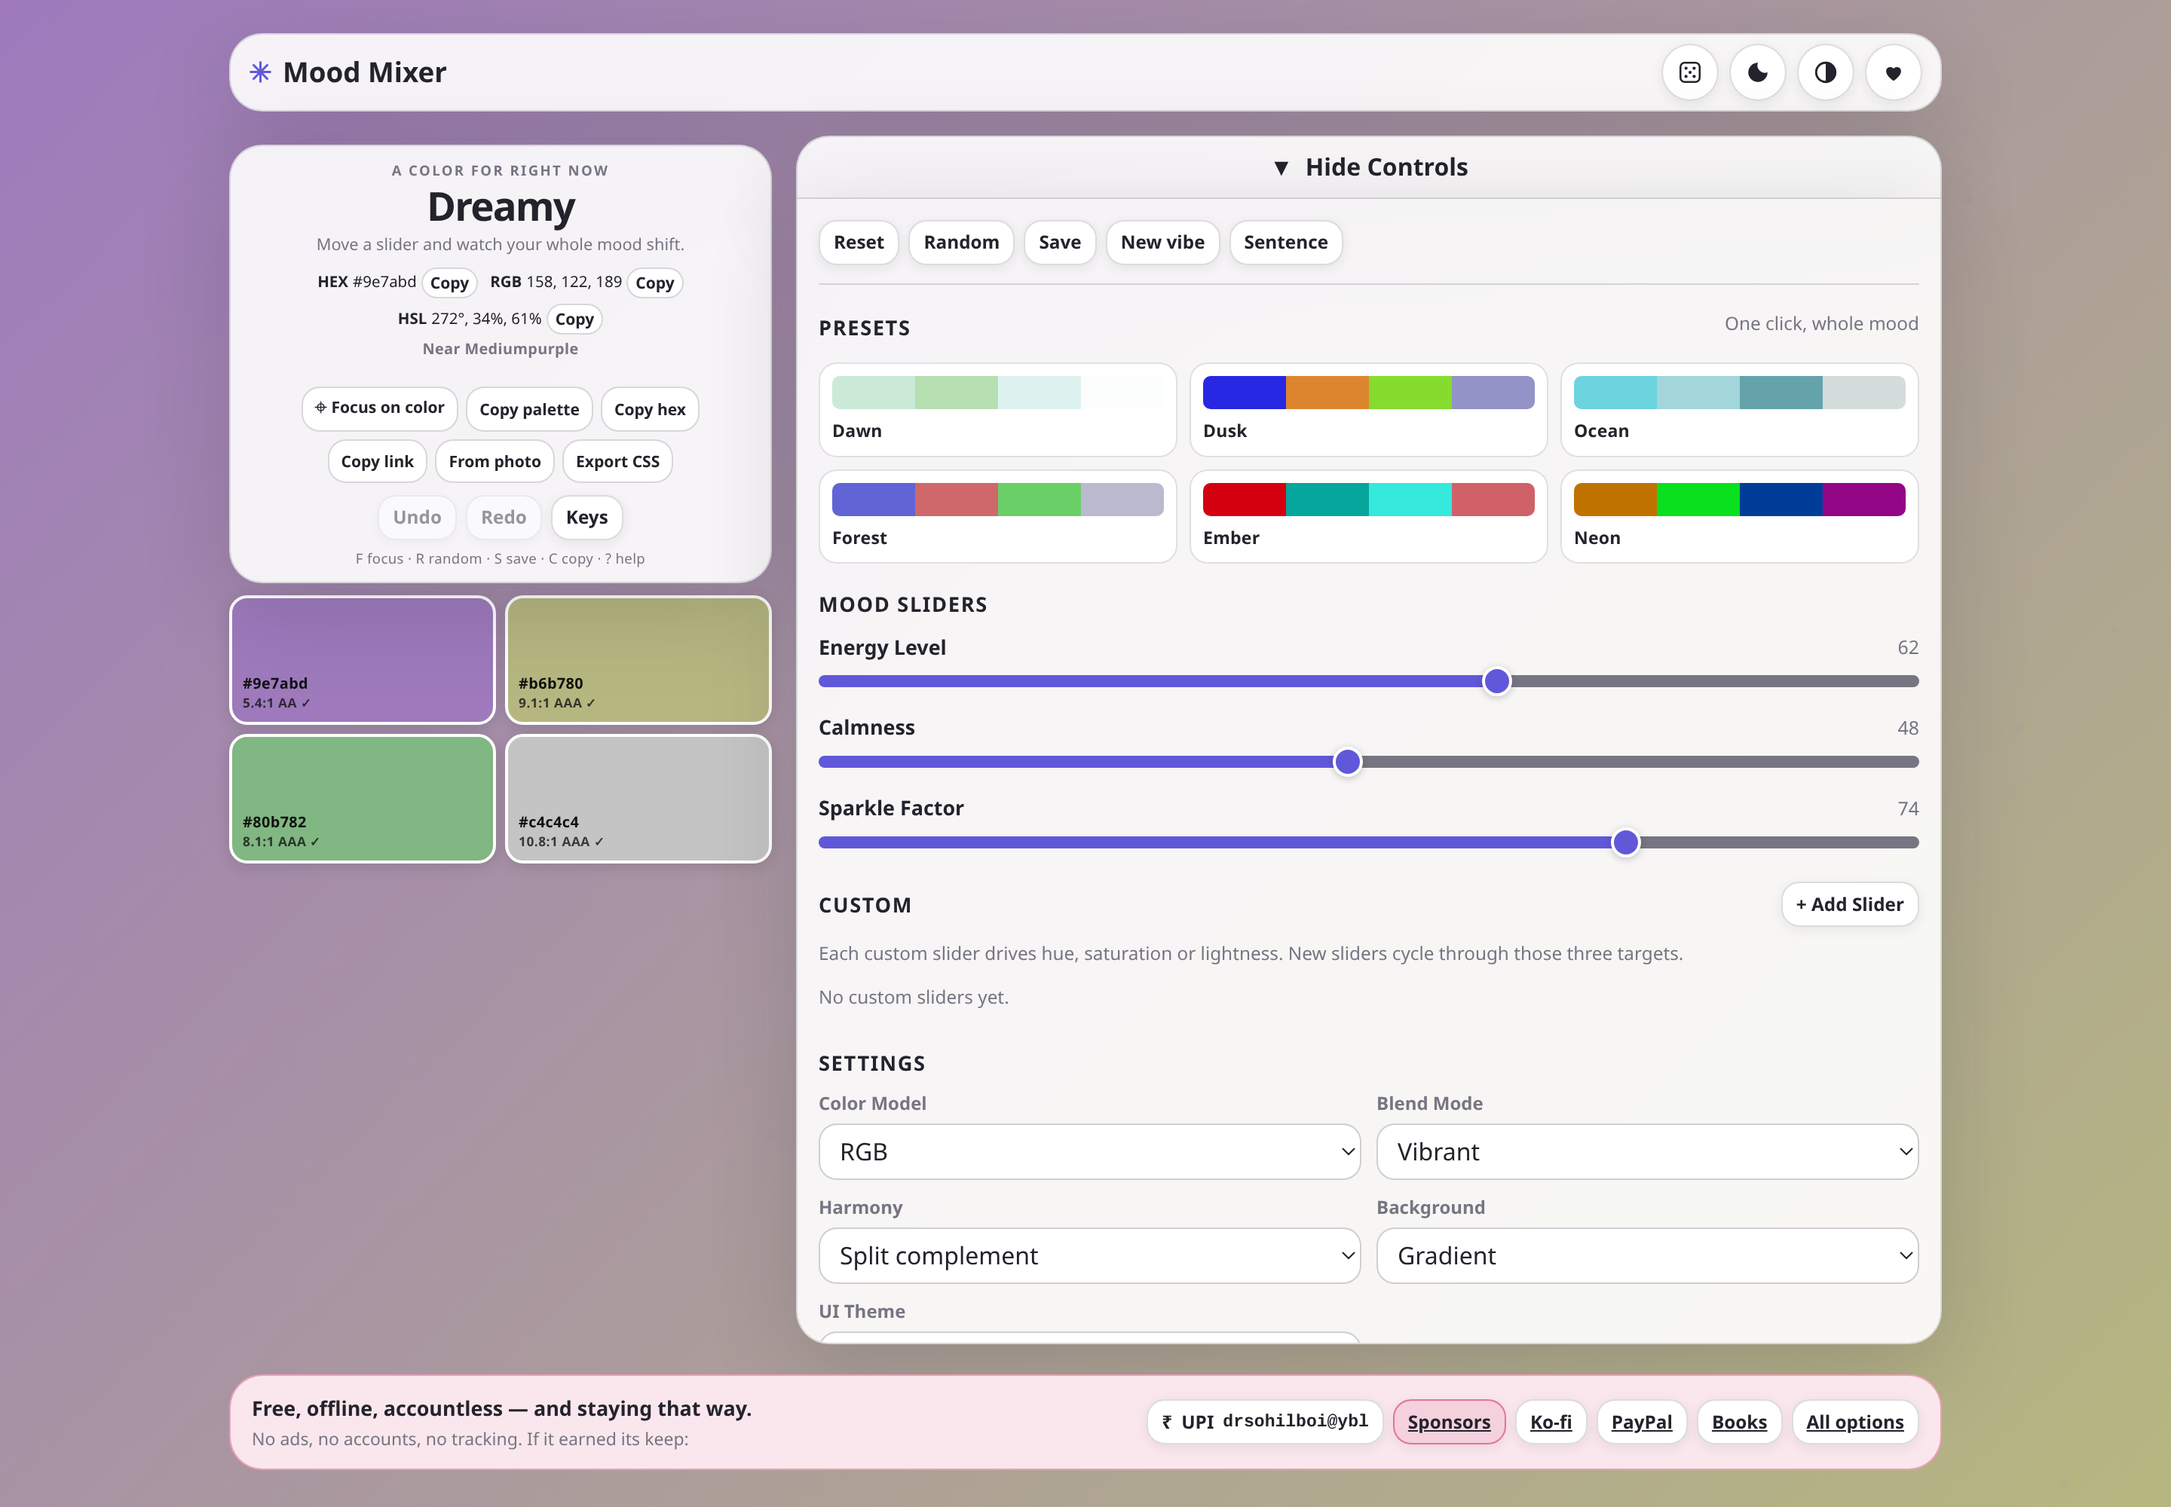
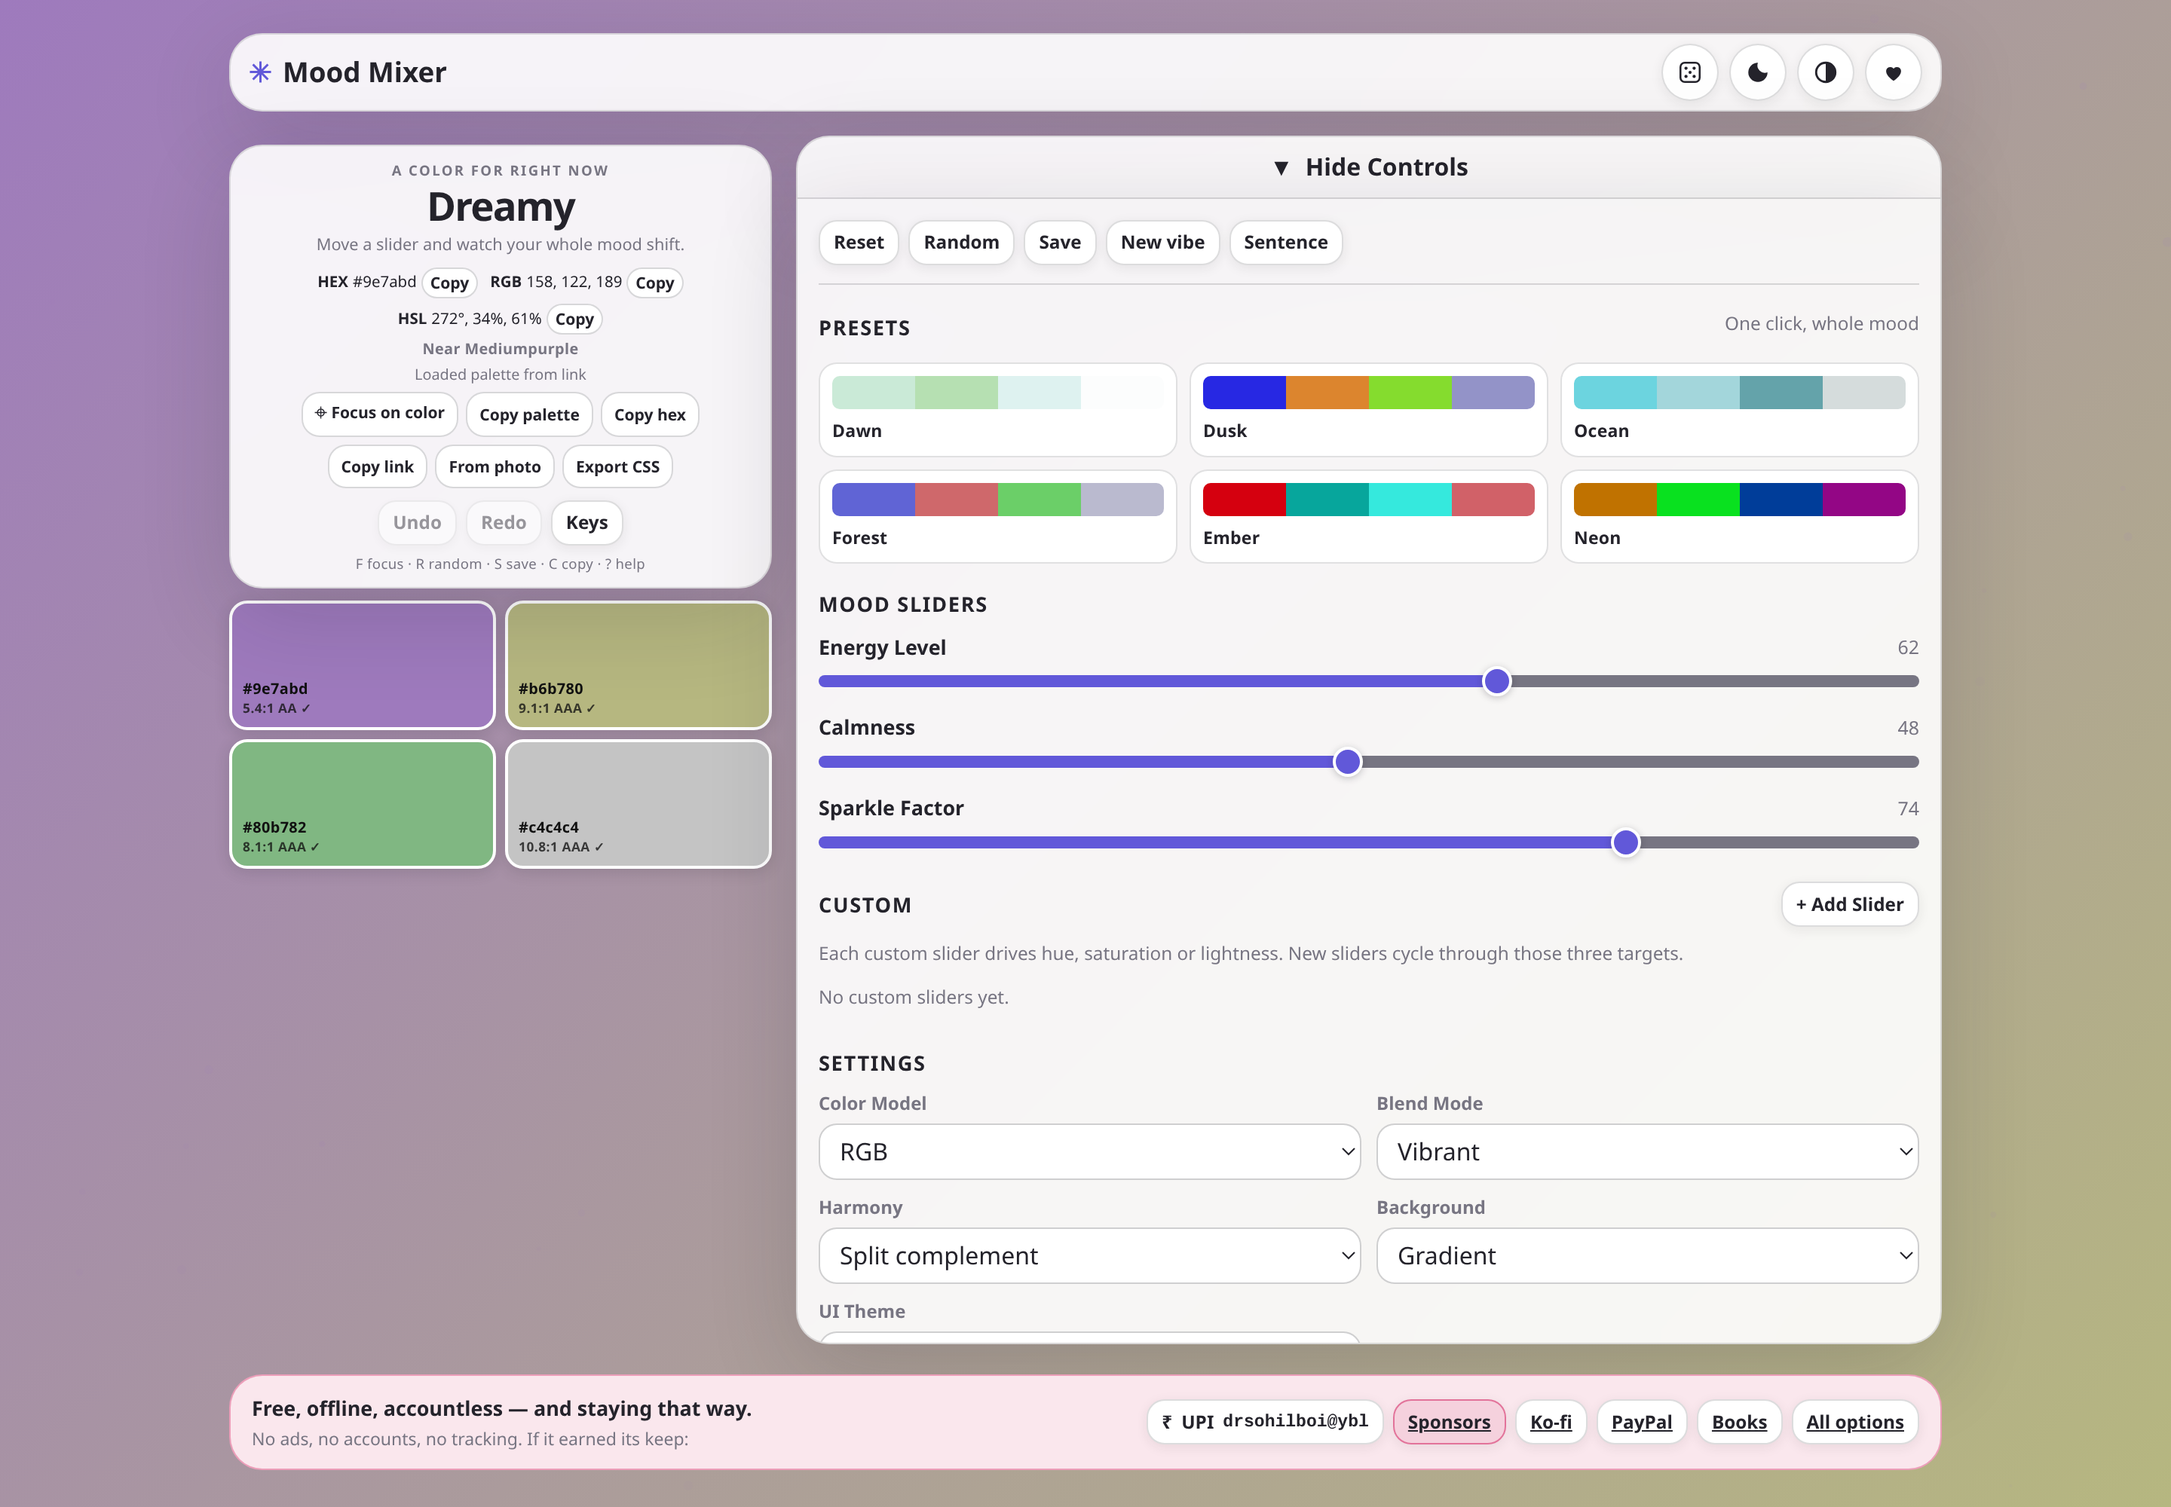
Batch 13 (condensed): clipboard seeding, folder export, mood compare, focus caption
- Paste an image anywhere to seed the sliders from its dominant colour
- Export folder downloads just that folder as JSON
- Saved moods gain a Compare button; the compare dialog takes any palette
- Focus mode shows a hex caption for 1.4s on entry and on colour change
- Asset version 2.13.0

Changed region(s): [[0.0938, 0.248, 0.375, 0.403], [0.0938, 0.527, 0.3438, 0.589], [0.0938, 0.434, 0.375, 0.496]]

diff --git a/script.js b/script.js
@@ -474,6 +474,8 @@
     if (!chips) return;
     const rename = byId('renameFolderBtn');
     if (rename) rename.hidden = state.folderFilter === 'All';
+    const exportFolder = byId('exportFolderBtn');
+    if (exportFolder) exportFolder.hidden = state.folderFilter === 'All';
     const counts = new Map();
     state.saved.forEach((mood) => {
       const key = folderOf(mood);
@@ -658,6 +660,16 @@
         persistNow();
       });
 
+      const compare = document.createElement('button');
+      compare.type = 'button';
+      compare.className = 'btn btn-sm';
+      compare.textContent = 'Compare';
+      compare.addEventListener('click', () => openCompare({
+        id: mood.id,
+        name: mood.name || 'Saved mood',
+        palette: Array.isArray(mood.palette) && mood.palette.length ? mood.palette : [mood.hex]
+      }));
+
       const remove = document.createElement('button');
       remove.type = 'button';
       remove.className = 'btn btn-sm';
@@ -668,7 +680,7 @@
         persistNow();
       });
 
-      actions.append(load, rename, note, folder, remove);
+      actions.append(load, compare, rename, note, folder, remove);
       row.append(pick, swatch, info, actions);
       container.appendChild(row);
     });
@@ -1258,6 +1270,7 @@
     const backdropInk = C.bestInk(C.hexToRgb(palette[0]) || current);
     document.documentElement.style.setProperty('--on-backdrop', backdropInk.ink);
     document.documentElement.setAttribute('data-backdrop-ink', backdropInk.on);
+    if (document.querySelector('.app-container.focus-mode')) flashFocusCaption();
 
     document.querySelectorAll('#slidersContainer input[type="range"], #customSlidersContainer input[type="range"]')
       .forEach((slider) => {
@@ -1501,7 +1514,12 @@
     return wrap;
   }
 
-  function openCompare(collection) {
+  function openCompare(source) {
+    const collection = {
+      id: source.id || '',
+      name: source.name || 'Palette',
+      palette: source.palette || (source.hex ? [source.hex] : [])
+    };
     const dialog = byId('compareDialog');
     if (!dialog || typeof dialog.showModal !== 'function') return;
     const body = byId('compareBody');
@@ -1751,6 +1769,15 @@
 
   /* ---------- focus mode ---------- */
 
+  function flashFocusCaption() {
+    const caption = byId('focusCaption');
+    if (!caption) return;
+    caption.textContent = `${C.toHex(current)} \u00b7 ${currentVibe}`;
+    caption.classList.add('is-on');
+    window.clearTimeout(flashFocusCaption.timer);
+    flashFocusCaption.timer = window.setTimeout(() => caption.classList.remove('is-on'), 1400);
+  }
+
   function setFocusMode(active) {
     const appContainer = $('.app-container');
     const button = byId('focusModeBtn');
@@ -1765,6 +1792,7 @@
       button.textContent = active ? '\u2715 Exit focus view' : '\u26f6 Focus on color';
     }
     window.clearTimeout(hudHideTimer);
+    if (active) flashFocusCaption();
   }
 
   function toggleFocusMode() {
@@ -1864,6 +1892,7 @@
       if (!appContainer || !appContainer.classList.contains('focus-mode')) return;
       appContainer.classList.add('hud-visible');
       window.clearTimeout(hudHideTimer);
+    if (active) flashFocusCaption();
       hudHideTimer = window.setTimeout(() => appContainer.classList.remove('hud-visible'), 3500);
     });
 
@@ -1873,10 +1902,25 @@
     on('copyHexBtn', 'click', () => copyText(C.toHex(current), `${C.toHex(current)} copied`));
     on('seedPhotoBtn', 'click', () => byId('seedPhotoInput')?.click());
 
+    document.addEventListener('paste', (event) => {
+      const items = event.clipboardData ? Array.from(event.clipboardData.items) : [];
+      const imageItem = items.find((item) => item.type && item.type.startsWith('image/'));
+      if (!imageItem) return;
+      const file = imageItem.getAsFile();
+      if (!file) return;
+      event.preventDefault();
+      seedFromFile(file);
+    });
+
     on('seedPhotoInput', 'change', (event) => {
       const file = event.target.files?.[0];
       event.target.value = '';
-      if (!file) return;
+      if (file) seedFromFile(file);
+    });
+  }
+
+  function seedFromFile(file) {
+    {
       const url = URL.createObjectURL(file);
       const image = new Image();
       image.onload = () => {
@@ -1913,8 +1957,10 @@
         announce('That file is not an image the browser can read');
       };
       image.src = url;
-    });
+    }
+  }
 
+  function bindHeroExtras() {
     on('copyLinkBtn', 'click', async () => {
       const url = shareUrl();
       if (navigator.share) {
@@ -2145,6 +2191,28 @@
       moods: state.saved,
       collections: state.collections
     }, null, 2), 'application/json'));
+
+    on('exportFolderBtn', 'click', () => {
+      if (state.folderFilter === 'All') {
+        announce('Pick a folder first');
+        return;
+      }
+      const folder = state.folderFilter;
+      const moods = state.saved.filter((mood) => folderOf(mood) === folder);
+      if (!moods.length) {
+        announce('That folder is empty');
+        return;
+      }
+      const payload = {
+        app: 'Mood Mixer',
+        kind: 'folder',
+        folder,
+        exported: new Date().toISOString(),
+        moods
+      };
+      download(`mood-mixer-${folder.toLowerCase().replace(/[^a-z0-9]+/g, '-')}.json`, JSON.stringify(payload, null, 2), 'application/json');
+      announce(`${moods.length} mood${moods.length === 1 ? '' : 's'} exported`);
+    });
 
     on('renameFolderBtn', 'click', () => {
       if (state.folderFilter === 'All') {
@@ -2573,6 +2641,7 @@
     renderHistory();
     updateUndoButtons();
     bindEvents();
+    bindHeroExtras();
     bindInstall();
     bindNetwork();
     particles.init();

diff --git a/mixer/index.html b/mixer/index.html
@@ -10,15 +10,15 @@
   <meta name="color-scheme" content="light dark">
   <link rel="icon" href="../favicon.svg" type="image/svg+xml">
   <link rel="apple-touch-icon" href="../icons/apple-touch-icon.png">
-  <link rel="manifest" href="../manifest.json?v=2.12.0">
+  <link rel="manifest" href="../manifest.json?v=2.13.0">
   <meta property="og:type" content="website">
   <meta property="og:title" content="Mood Mixer — live color playground">
   <meta property="og:description" content="Sliders in, palettes out. Copy hex, check contrast, export CSS, JSON, Tailwind or PNG.">
   <meta property="og:image" content="https://drsamonline.github.io/mood-mixer/screenshots/mixer.png">
   <meta name="twitter:card" content="summary_large_image">
   <meta name="twitter:image" content="https://drsamonline.github.io/mood-mixer/screenshots/mixer.png">
-  <link rel="stylesheet" href="../theme.css?v=2.12.0">
-  <link rel="stylesheet" href="../style.css?v=2.12.0">
+  <link rel="stylesheet" href="../theme.css?v=2.13.0">
+  <link rel="stylesheet" href="../style.css?v=2.13.0">
 </head>
 
 <body>
@@ -69,6 +69,8 @@
         </a>
       </div>
     </header>
+
+    <p id="focusCaption" class="focus-caption" aria-hidden="true"></p>
 
     <section class="hero-display" id="heroDisplay" aria-label="Your current color mood">
       <div class="hero-vibe-section">
@@ -322,6 +324,7 @@
           <div class="folder-row">
             <div id="folderChips" class="folder-chips" aria-label="Saved mood folders"></div>
             <button id="renameFolderBtn" class="btn btn-sm" type="button" hidden title="Rename the active folder">Rename folder</button>
+            <button id="exportFolderBtn" class="btn btn-sm" type="button" hidden title="Export the active folder as JSON">Export folder</button>
           </div>
           <div id="savedMoodsContainer" class="saved-moods"></div>
         </section>
@@ -411,8 +414,8 @@
     </form>
   </dialog>
 
-  <script src="../color-core.js?v=2.12.0"></script>
-  <script src="../script.js?v=2.12.0"></script>
+  <script src="../color-core.js?v=2.13.0"></script>
+  <script src="../script.js?v=2.13.0"></script>
 </body>
 
 </html>

diff --git a/style.css b/style.css
@@ -1804,3 +1804,37 @@ body.focus-locked {
 .folder-row .folder-chips {
   margin-bottom: 0;
 }
+
+/* ---------- focus caption ---------- */
+.focus-caption {
+  position: fixed;
+  left: 50%;
+  bottom: 42px;
+  z-index: 5;
+  margin: 0;
+  padding: 7px 14px;
+  border-radius: 999px;
+  background: color-mix(in srgb, var(--on-backdrop, #ffffff) 18%, transparent);
+  color: var(--on-backdrop, #ffffff);
+  font-size: 0.72rem;
+  font-weight: 700;
+  letter-spacing: 0.06em;
+  opacity: 0;
+  pointer-events: none;
+  transform: translate(-50%, 6px);
+  transition: opacity 0.4s ease, transform 0.4s ease;
+  white-space: nowrap;
+}
+
+.focus-caption.is-on {
+  opacity: 0.92;
+  transform: translate(-50%, 0);
+}
+
+.app-container.focus-mode .focus-caption {
+  display: block;
+}
+
+.app-container:not(.focus-mode) .focus-caption {
+  display: none;
+}

diff --git a/index.html b/index.html
@@ -20,8 +20,8 @@
   <meta name="twitter:title" content="Mood Mixer — find the color for right now">
   <meta name="twitter:description" content="A private, offline-ready color playground. Sliders in, palettes out.">
   <meta name="twitter:image" content="https://drsamonline.github.io/mood-mixer/screenshots/landing.png">
-  <link rel="stylesheet" href="theme.css?v=2.12.0">
-  <link rel="stylesheet" href="landing.css?v=2.12.0">
+  <link rel="stylesheet" href="theme.css?v=2.13.0">
+  <link rel="stylesheet" href="landing.css?v=2.13.0">
 </head>
 
 <body>
@@ -198,8 +198,8 @@
     </footer>
   </div>
 
-  <script src="color-core.js?v=2.12.0"></script>
-  <script src="landing.js?v=2.12.0"></script>
+  <script src="color-core.js?v=2.13.0"></script>
+  <script src="landing.js?v=2.13.0"></script>
 </body>
 
 </html>

diff --git a/service-worker.js b/service-worker.js
@@ -4,7 +4,7 @@
  */
 const CACHE_VERSION = 'v11';
 const CACHE_NAME = `mood-mixer-${CACHE_VERSION}`;
-const ASSET_VERSION = '2.12.0';
+const ASSET_VERSION = '2.13.0';
 
 const PRECACHE = [
   './',

diff --git a/README.md b/README.md
@@ -83,15 +83,15 @@ All captures are real renders of this repository, taken at 1440×900, 1440×1000
 - **Exports.** Copy hex, copy the palette, copy it as a text list, or download CSS variables, JSON, a Tailwind config or a 1200×630 PNG card.
 - **Shareable links.** The whole state packs into a six-character code — `#p=1in8hx` — carried in the URL hash; a Copy link button puts the full link on the clipboard. Longer query-style links from earlier versions still open.
 - **Vision check.** The current palette shown as deuteranopia, protanopia and tritanopia see it, beside normal vision.
-- **Seed from a photo.** A `From photo` button in the hero reads the dominant colour of a dropped image and moves the sliders to match, without opening the panel.
+- **Seed from a photo or the clipboard.** A `From photo` button reads the dominant colour of an image and moves the sliders to match; pasting an image anywhere does the same, without opening the panel.
 - **From an image.** Drop a photo or pick a file: five dominant colours are read in the browser, copyable one by one, or matched back to the sliders. Nothing is uploaded.
 - **Collections.** Save the four colours as a named palette, restore it with every setting, pin it, copy it, share it as a link, delete it. Collections travel in the JSON backup.
 - **Pinned palettes.** A collection can be pinned, and a pinned palette travels as `#q=7ec8e3-4a90d9-1f2c3d-ffffff` — the exact four colours, not a re-derivation. Moving a slider releases the pin.
 - **SVG sheet.** A printable, self-contained SVG with every colour's hex, RGB, HSL and contrast against white and black — or the same sheet rasterised to a 2× PNG for posting.
-- **Palette compare.** Put a saved palette beside the current one — or two beside it — colour by colour, with contrast grades and a ▲ on whichever colour wins at each position; the comparison saves as an SVG.
+- **Palette compare.** Put a saved mood or palette beside the current one — or two beside it — colour by colour, with contrast grades and a ▲ on whichever colour wins at each position; the comparison saves as an SVG.
 - **Naming that suggests.** Saving opens a small dialog pre-filled with `<vibe> · <harmony>`, plus two alternatives built from the nearest colour name.
 - **Quiet mode.** One switch stops every status announcement — for screen recording or a still screen.
-- **Folder rename.** With a folder selected, `Rename folder` rewrites every mood filed there in one step.
+- **Folder rename and export.** With a folder selected, `Rename folder` rewrites every mood filed there, and `Export folder` downloads just that folder as JSON.
 - **Folder memory.** Saves land in the folder you last used, so filing needs no extra prompt.
 - **Long press for focus.** Hold anywhere that is not a control for half a second and the screen becomes the colour.
 - **Offline badge.** A quiet pill appears only when the network drops: "Offline · still working".
@@ -107,7 +107,7 @@ All captures are real renders of this repository, taken at 1440×900, 1440×1000
 - **Offline self-test.** `selftest.html` loads every precached file and reports what came from the network and what came from the cache; run it online, then with the network off.
 - **Print card.** One click prints the palette as a clean card — vibe, hex, RGB, HSL and the four colours in a 2×2 grid, nothing else.
 - **Undo and redo.** Ctrl/Cmd+Z, Ctrl/Cmd+Shift+Z, or the buttons.
-- **Focus mode.** One tap on the screen and the whole display becomes the colour — header, card, swatches, controls, support bar and footer all go. Tap anywhere to bring the interface back for a few seconds, or press Escape to leave.
+- **Focus mode.** A hex caption fades in for a moment when the screen turns to colour, then leaves. One tap on the screen and the whole display becomes the colour — header, card, swatches, controls, support bar and footer all go. Tap anywhere to bring the interface back for a few seconds, or press Escape to leave.
 - **Randomise from the header.** One button in the header, or `R`, reshuffles every slider; undo puts it back.
 - **Four UI themes, dark mode, high contrast.** Modern, minimalist, retro and neon, each with its own type and colour tokens.
 - **Sound and particles.** Optional WebAudio ticks, and an ambient particle layer that follows the sparkle slider.
